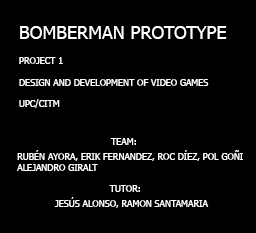
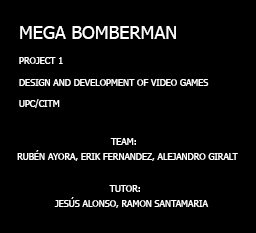
things

Changed region(s): [[0.0625, 0.0901, 0.9062, 0.1803], [0.5938, 0.6309, 0.9688, 0.691], [0.0625, 0.691, 0.375, 0.7511]]

diff --git a/Project_7_Solution/Source/ModuleFlower.cpp b/Project_7_Solution/Source/ModuleFlower.cpp
@@ -9,7 +9,11 @@
 
 ModuleFlower::ModuleFlower(bool startEnabled) : Module(startEnabled)
 {
+	// Idle
+	idle.PushBack({ 0, 0, 16, 16 });
 
+	// Dead
+	dead.PushBack({ 16, 0, 16, 16 });
 }
 
 ModuleFlower::~ModuleFlower()
@@ -28,6 +32,11 @@ bool ModuleFlower::Start()
 	
 	position.x = 24;  //Esquina arriba izq
 	position.y = 41;  //primera fila
+
+	for (int i = 0; i < NUM_FLOWERS; i++)
+	{
+		currentAnimation[i] = &idle;
+	}
 
 	if (App->sceneLevel_1->IsEnabled() == true)
 	{
@@ -160,28 +169,43 @@ bool ModuleFlower::Start()
 	return ret;
 }
 
+update_status ModuleFlower::Update()
+{
+	for (int i = 0; i < NUM_FLOWERS; i++)
+	{
+		currentAnimation[i]->Update();
+
+		if (flowers[i].isDestroyed)
+		{
+			flowers[i].dCount++;
+			if (flowers[i].dCount >= 90)
+			{
+				flowers[i].destroyed = true;
+			}
+			if (flowers[i].destroyed)
+			{
+				flowers[i].colliderT->pendingToDelete = true;
+			}
+		}
+	}
+
+
+	return update_status::UPDATE_CONTINUE;
+}
+
 // Update: draw background
 update_status ModuleFlower::PostUpdate()
 {
 	// Draw everything --------------------------------------
 	for (int i = 0; i < NUM_FLOWERS; i++)
 	{
-		if (App->sceneLevel_1->IsEnabled() == true && !flowers[i].isDestroyed)
+		if (App->sceneLevel_1->IsEnabled() == true && !flowers[i].destroyed)
 		{
-			App->render->Blit(flowers[i].flowerT, flowers[i].x, flowers[i].y, NULL);
+			App->render->Blit(flowers[i].flowerT, flowers[i].x, flowers[i].y, &(currentAnimation[i]->GetCurrentFrame()));
 		}
-		else if (App->sceneLevel_2->IsEnabled() == true && !flowers[i].isDestroyed)
+		else if (App->sceneLevel_2->IsEnabled() == true && !flowers[i].destroyed)
 		{
-			App->render->Blit(flowers[i].flowerT, flowers[i].x, flowers[i].y, NULL);
-		}
-	}
-	
-
-	for (int i = 0; i < NUM_FLOWERS; i++)
-	{
-		if (flowers[i].isDestroyed == true)
-		{
-			flowers[i].colliderT->pendingToDelete = true;
+			App->render->Blit(flowers[i].flowerT, flowers[i].x, flowers[i].y, &(currentAnimation[i]->GetCurrentFrame()));
 		}
 	}
 	
@@ -201,6 +225,7 @@ void ModuleFlower::OnCollision(Collider* c1, Collider* c2)
 			case Collider::Type::PLAYER_SHOT:
 			{
 				flowers[i].isDestroyed = true;
+				currentAnimation[i] = &dead;
 			} break;
 
 			default:

diff --git a/Project_7_Solution/Source/ModuleFlower.h b/Project_7_Solution/Source/ModuleFlower.h
@@ -3,6 +3,7 @@
 
 #include "Module.h"
 #include "p2Point.h"
+#include "Animation.h"
 
 #define NUM_FLOWERS 100
 
@@ -15,6 +16,8 @@ struct Flower {
 	int x;
 	int y;
 	bool isDestroyed = false;
+	uint dCount = 0;
+	bool destroyed = false;
 };
 
 class ModuleFlower : public Module
@@ -29,6 +32,8 @@ public:
 	// Called when the module is activated
 	// Loads the necessary textures for the map background
 	bool Start() override;
+
+	update_status Update() override;
 
 	// Called at the end of the application loop.
 	// Performs the render call of all the parts of the scene's background
@@ -47,6 +52,10 @@ public:
 	Flower flowers[NUM_FLOWERS] = { nullptr };
 
 	Flower CreateFlower(int x, int y, SDL_Texture* t);
+
+	Animation* currentAnimation[NUM_FLOWERS] = { nullptr };
+	Animation idle;
+	Animation dead;
 
 };
 

diff --git a/Project_7_Solution/Source/ModuleRedFlower.cpp b/Project_7_Solution/Source/ModuleRedFlower.cpp
@@ -14,14 +14,8 @@ ModuleRedFlower::ModuleRedFlower(bool startEnabled) : Module(startEnabled)
 		// Idle
 		idle.PushBack({ 0, 0, 16, 16 });
 
-		// walk Up
+		// Dead
 		dead.PushBack({ 16, 0, 16, 16 });
-		dead.PushBack({ 32, 0, 16, 16 });
-		dead.PushBack({ 48, 0, 16, 16 });
-		dead.PushBack({ 64, 0, 16, 16 });
-		dead.PushBack({ 80, 0, 16, 16 });
-		dead.speed = 0.05f;
-		dead.loop = false;
 	}
 }
 
@@ -37,7 +31,7 @@ bool ModuleRedFlower::Start()
 
 	bool ret = true;
 
-	flowerTexture = App->textures->Load("Assets/RedFlower_Destroy2.png");  
+	flowerTexture = App->textures->Load("Assets/RedFlower_Destroy.png");  
 
 	position.x = 24;
 	position.y = 41;

diff --git a/Project_7_Solution/Source/ModuleWindow.cpp b/Project_7_Solution/Source/ModuleWindow.cpp
@@ -39,7 +39,7 @@ bool ModuleWindow::Init()
 		if (WIN_FULLSCREEN_DESKTOP == true)
 			flags |= SDL_WINDOW_FULLSCREEN_DESKTOP;
 
-		window = SDL_CreateWindow("SPACE--Bomb, Q--add max bombs", SDL_WINDOWPOS_UNDEFINED, SDL_WINDOWPOS_UNDEFINED, SCREEN_WIDTH * SCREEN_SIZE, SCREEN_HEIGHT * SCREEN_SIZE, flags);
+		window = SDL_CreateWindow("MEGA BOMBERMAN", SDL_WINDOWPOS_UNDEFINED, SDL_WINDOWPOS_UNDEFINED, SCREEN_WIDTH * SCREEN_SIZE, SCREEN_HEIGHT * SCREEN_SIZE, flags);
 
 		if (window == nullptr)
 		{

diff --git a/Project_7_Solution/Source/ModuleParticles.cpp b/Project_7_Solution/Source/ModuleParticles.cpp
@@ -29,7 +29,7 @@ bool ModuleParticles::Start()
 	bomb.anim.PushBack({ 63, 48, 16, 16 });
 	bomb.anim.PushBack({ 80, 48, 16, 16 });
 	bomb.lifetime = 300;
-	bomb.anim.speed = 0.02f;
+	bomb.anim.speed = 0.03f;
 	
 
 	// Explosion particle

diff --git a/Project_7_Solution/Source/ModuleRedFlower.h b/Project_7_Solution/Source/ModuleRedFlower.h
@@ -5,7 +5,6 @@
 #include "p2Point.h"
 #include "Animation.h"
 
-
 #define NUM_RED_FLOWERS 5
 
 struct SDL_Texture;
